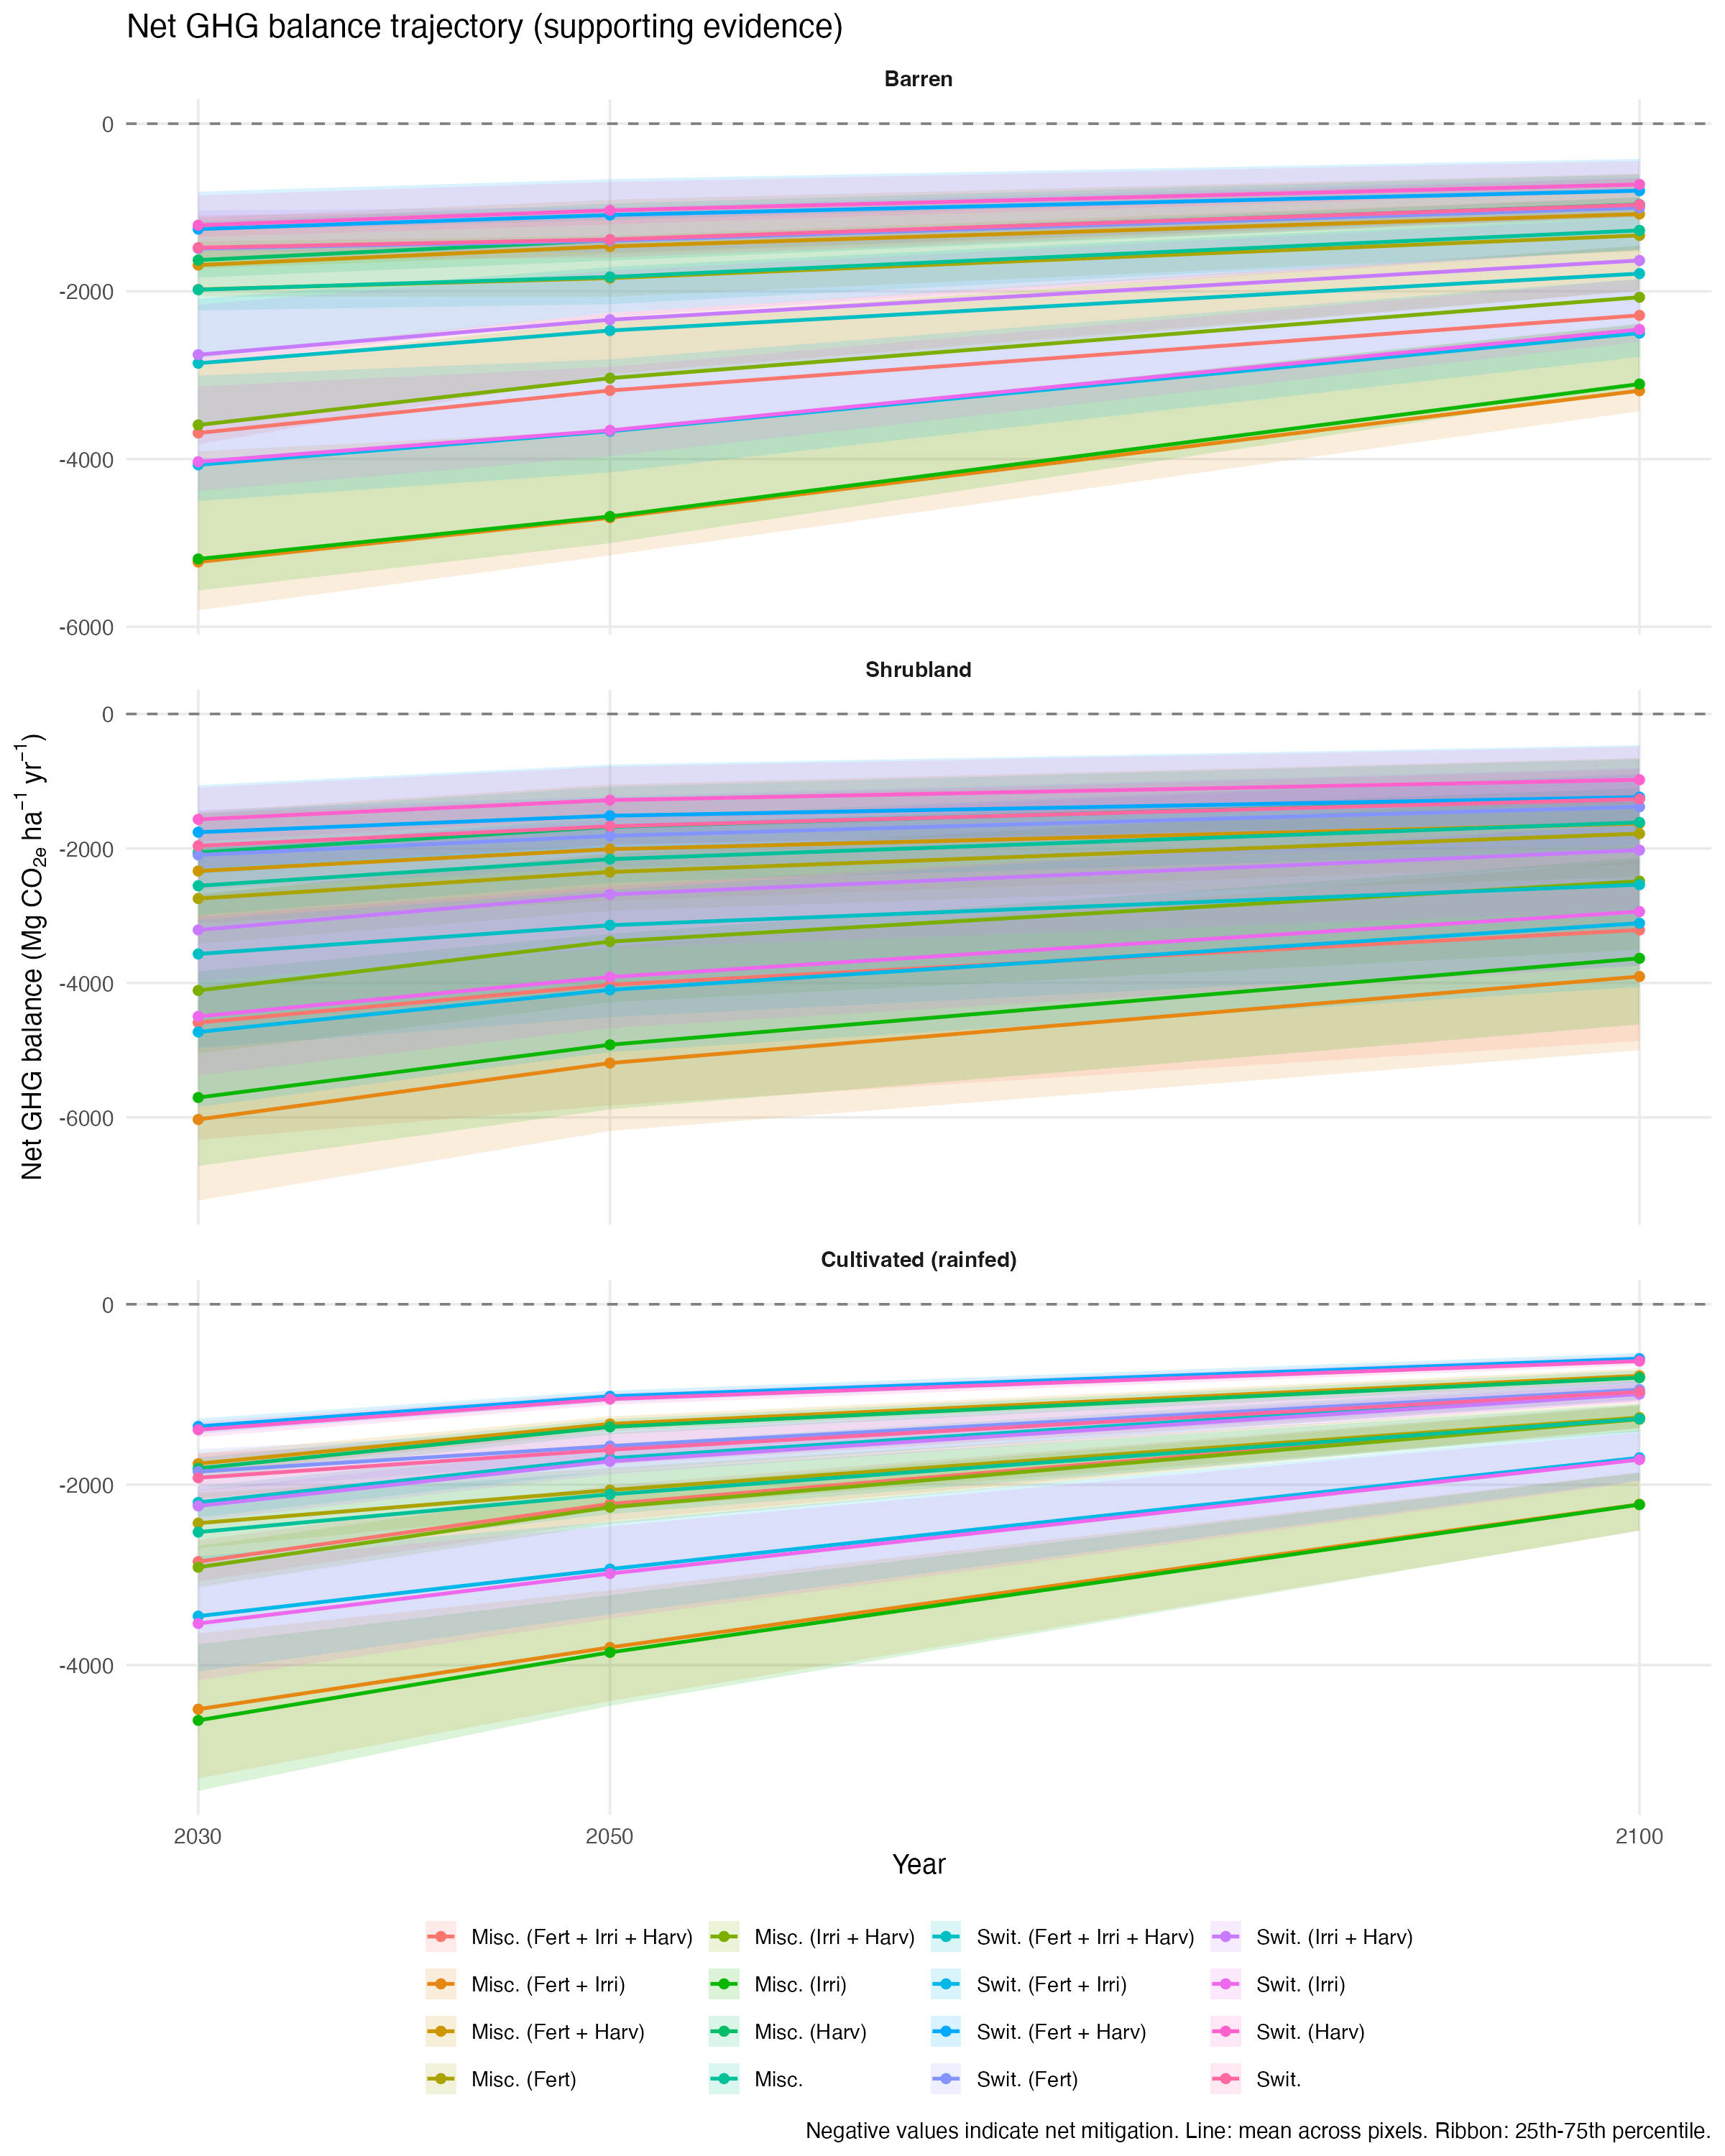
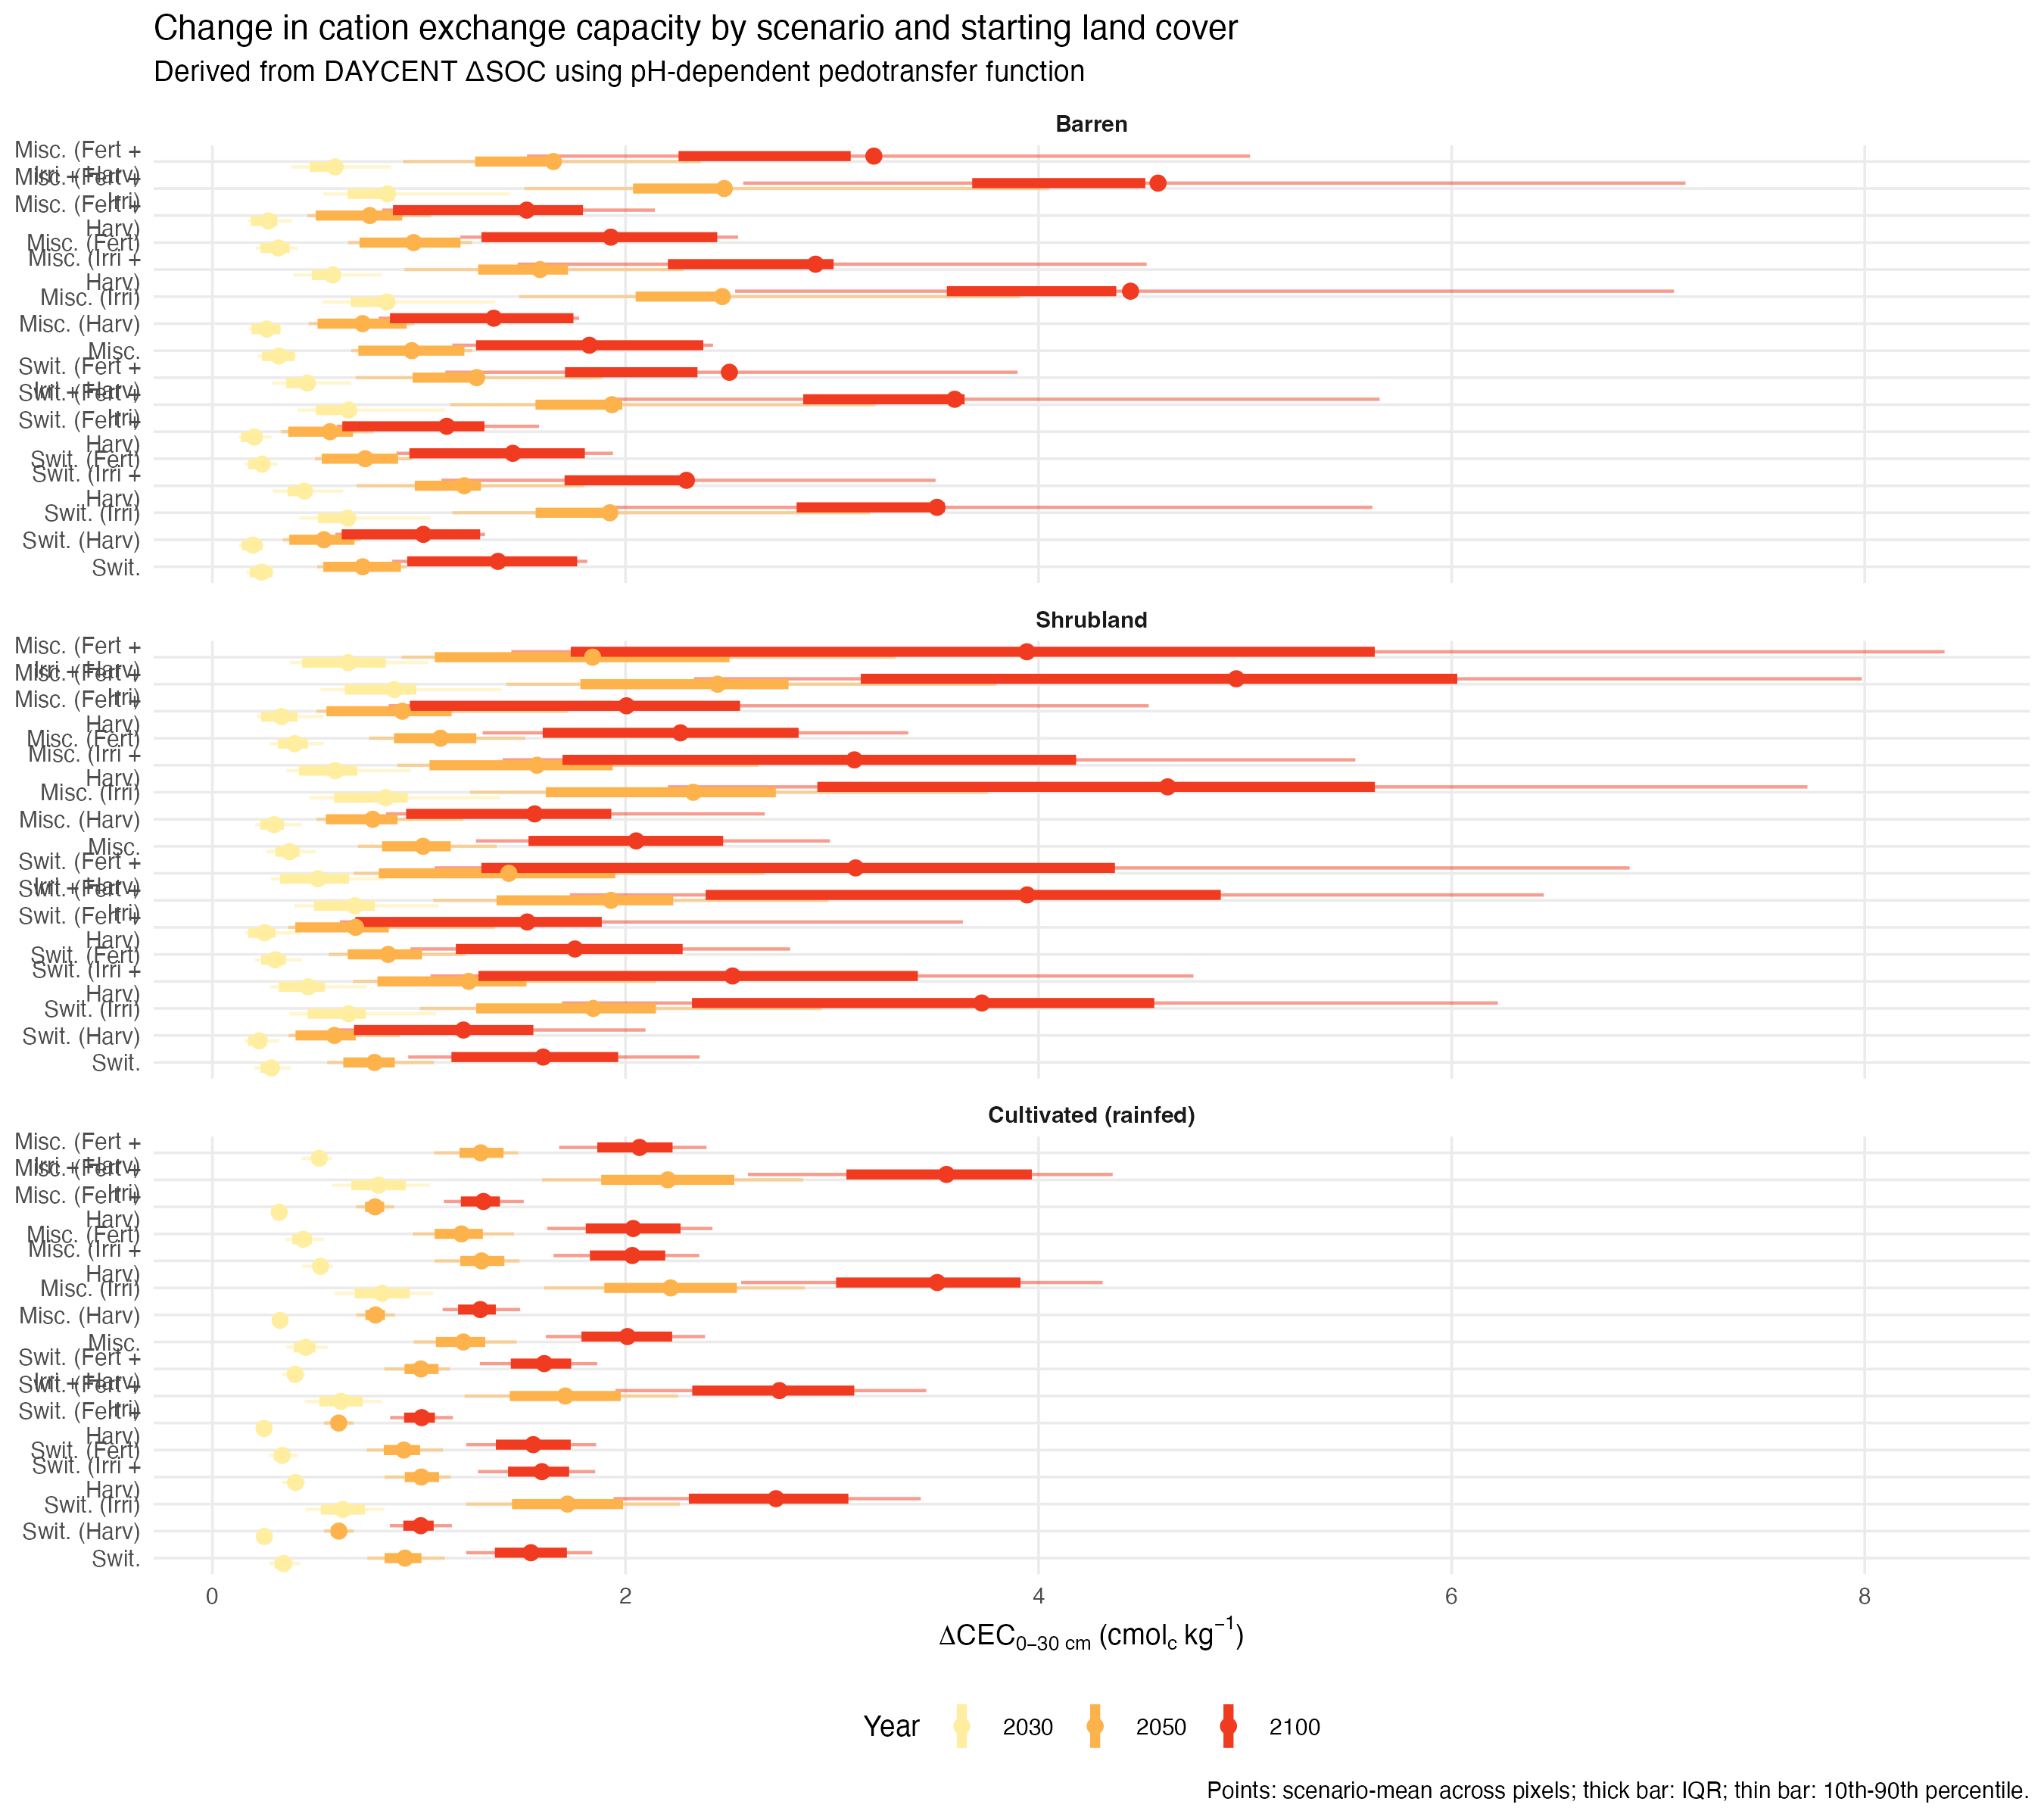
feat: add CEC and soil-N section to manuscript (Figs 7+8)
New subsections in Results:
  Cation exchange capacity:
    - Baseline CEC 9.6-22.5 cmolc/kg (25th-75th pct) from gSSURGO, median 15.0
    - ΔCEC at 2100: 1.0-5.0 cmolc/kg mean across 48 scenario-lc combos (4-33% of baseline)
    - Best scenario: misc_fert_irri_noharv on shrubland = 5.0 cmolc/kg mean
    - PTF limitation stated; order-of-magnitude interpretation recommended
    - Figures 7 (distributions) and 8 (spatial map) added

  Soil nitrogen storage and availability:
    - ΔN_organic: 1.2-3.7 kg N/ha at 2100
    - N mineralization potential: 0.4-1.1 kg N/ha/yr (mean 0.6)
    - Sustained fertility benefit framing (not GHG)

Updated:
  - Abstract: adds CEC and soil nitrogen to scope statement
  - Intro scope disclaimer: updated to include CEC via pedotransfer
  - Conclusions para 1: adds ΔCEC and ΔN_min numbers
  - references.bib: added BradyWeilSoilsPlaceholder, BohnMcNealPlaceholder

Data sources: cec_delta_summary.csv, n_organic_summary.csv (Analysis repo)

diff --git a/main_soc.tex b/main_soc.tex
@@ -39,7 +39,7 @@
 \maketitle
 
 \begin{abstract}
-This study quantifies how land-use change to perennial biofuel crops affects soil organic carbon (SOC) and soil nitrogen dynamics in the Permian Basin. Converting barren land, native shrubland, and rainfed cropland to miscanthus (\textit{Miscanthus} $\times$ \textit{giganteus}) or switchgrass (\textit{Panicum virgatum}) under 16 management strategies defined by combinations of nitrogen fertilization, irrigation, and harvest regime is evaluated using DAYCENT, a calibrated process-based biogeochemical model, at 1\,km resolution from 2021 through 2100. Across all 48 scenario–land-cover combinations, mean SOC (integrated to 105\,cm depth) increases by 14 to 85\,Mg\,C\,ha$^{-1}$ by year 2100, with the greatest gains under miscanthus with irrigation and residue retention on shrubland. Moisture availability is the primary management lever: irrigated scenarios exceed rainfed counterparts in both SOC accumulation and biomass yield. SOC response follows the basin's rainfall gradient, with the wetter southern portions showing greater accumulation than the drier north. These results identify the crop--management combinations that most effectively build SOC in this semi-arid region and provide a regional map to guide land-use planning.
+This study quantifies how land-use change to perennial biofuel crops affects soil organic carbon (SOC), cation exchange capacity (CEC), and soil nitrogen dynamics in the Permian Basin. Converting barren land, native shrubland, and rainfed cropland to miscanthus (\textit{Miscanthus} $\times$ \textit{giganteus}) or switchgrass (\textit{Panicum virgatum}) under 16 management strategies defined by combinations of nitrogen fertilization, irrigation, and harvest regime is evaluated using DAYCENT, a calibrated process-based biogeochemical model, at 1\,km resolution from 2021 through 2100. Across all 48 scenario–land-cover combinations, mean SOC (integrated to 105\,cm depth) increases by 14 to 85\,Mg\,C\,ha$^{-1}$ by year 2100, with the greatest gains under miscanthus with irrigation and residue retention on shrubland. Moisture availability is the primary management lever: irrigated scenarios exceed rainfed counterparts in both SOC accumulation and biomass yield. SOC response follows the basin's rainfall gradient, with the wetter southern portions showing greater accumulation than the drier north. These results identify the crop--management combinations that most effectively build SOC in this semi-arid region and provide a regional map to guide land-use planning.
 \end{abstract}
 
 \noindent\textbf{Keywords:} land use change, soil organic carbon, soil health, DAYCENT, Permian Basin
@@ -98,7 +98,7 @@ As a case in point, the Permian Basin encompasses barren land, native shrubland,
 % study (likely a USGS, NRCS, or EIA regional boundary dataset).
 % Suggested search: "Permian Basin geographic boundary GIS dataset USGS EIA"
 
-In this study, DAYCENT biogeochemical modeling evaluates SOC accumulation and soil-nitrogen dynamics—indicators of soil health that DAYCENT directly simulates—across 16 management scenarios and three starting land covers in the Permian Basin. Results do not extend to other soil health indicators such as aggregate stability, microbial biomass, or water-holding capacity, which require separate measurement.
+In this study, DAYCENT biogeochemical modeling evaluates SOC accumulation, cation exchange capacity, and soil-nitrogen dynamics—indicators of soil health that DAYCENT directly simulates or supports through pedotransfer—across 16 management scenarios and three starting land covers in the Permian Basin. Results do not extend to other soil health indicators such as microbial biomass or water-holding capacity, which require separate measurement.
 
 \section*{Materials and methods}
 
@@ -236,9 +236,25 @@ No-harvest management retains crop residues on the soil surface, which increases
 
 The spatial pattern of N2O flux broadly mirrors that of SOC accumulation: wetter southern portions of the basin show higher N2O flux under fertilized scenarios because greater overall microbial activity and soil nitrogen cycling occur in more productive environments.
 
-\section*{Conclusions}
+\subsection*{Cation exchange capacity}
 
-Land-use conversion to miscanthus or switchgrass builds substantial soil organic carbon in the Permian Basin across all management strategies and starting land covers. Across all 48 scenario–land-cover combinations simulated over a 79-year horizon (2021--2100), mean $\Delta$SOC ranges from 14 to 85\,Mg\,C\,ha$^{-1}$ by year 2100, showing that converting marginal lands to perennial biofuel crops is a viable soil-health restoration strategy in semi-arid regions.
+\manufig{figures/figure7.png}{Figure 7. Change in soil cation exchange capacity ($\Delta$CEC, integrated to 30\,cm depth) by management scenario and starting land cover at years 2030, 2050, and 2100. Points show the mean across pixels; thick bars span the 25th--75th percentile; thin bars span the 10th--90th percentile. $\Delta$CEC is derived from $\Delta$SOC using a pH-dependent pedotransfer function (\textit{CEC}$_\text{OM} = 30 \times$\,pH, cmol$_\text{c}$\,kg$^{-1}$\,OM; $\textit{CEC}_\text{clay} = 25$\,cmol$_\text{c}$\,kg$^{-1}$) with per-pixel pH and bulk density from gSSURGO.}
+
+\manufig{figures/figure8.png}{Figure 8. Spatial pattern of $\Delta$CEC (30\,cm depth) at year 2100, faceted by management scenario. Colour scale capped at the 99th percentile value.}
+
+Soil organic carbon accumulation raises cation exchange capacity (CEC), improving the soil's ability to retain and supply plant nutrients. Baseline CEC in the Permian Basin study area ranges from 9.6 to 22.5\,cmol$_\text{c}$\,kg$^{-1}$ (25th--75th percentile) across map units, with a median of 15.0\,cmol$_\text{c}$\,kg$^{-1}$ \citep{NRCSgSSURGOPlaceholder}, typical for the semi-arid mixed-clay soils of the region. Land-use conversion to perennial biofuel crops increases CEC through the growth of the organic-matter pool in the top 30\,cm \citep{BradyWeilSoilsPlaceholder,BohnMcNealPlaceholder}.
+
+At year 2100, mean $\Delta$CEC across the 48 scenario--land-cover combinations ranges from 1.0 to 5.0\,cmol$_\text{c}$\,kg$^{-1}$ (Figs. 7 and 8). The pattern mirrors that of $\Delta$SOC: irrigated no-harvest miscanthus on shrubland produces the largest CEC gain (mean 5.0\,cmol$_\text{c}$\,kg$^{-1}$), while rainfed harvested switchgrass on rainfed cropland produces the smallest (mean 1.0\,cmol$_\text{c}$\,kg$^{-1}$). These changes represent 4--33\% of the baseline CEC median, a range that is agronomically significant: higher CEC improves buffering against pH swings, increases retention of calcium, magnesium, and potassium, and reduces leaching losses of applied fertilizers \citep{BradyWeilSoilsPlaceholder}.
+
+The $\Delta$CEC values are estimated by a pH-dependent pedotransfer function and carry uncertainty from (1) the assumed $\textit{CEC}_\text{OM}$ coefficient, which is calibrated for temperate soils and may differ for alkaline semi-arid soils, and (2) the 30\,cm depth assumption and root-fraction scaling used to derive the 0--30\,cm $\Delta$SOC. These estimates should be treated as order-of-magnitude projections rather than precise predictions.
+
+\subsection*{Soil nitrogen storage and availability}
+
+SOC accumulation also builds soil organic nitrogen (N) stocks. New SOM accrues in the active (labile) and slow pools tracked by DAYCENT, with C:N ratios of approximately 10:1 and 12:1 respectively \citep{Parton1987Placeholder}. At year 2100, the change in soil organic N in the top 30\,cm ranges from 1.2 to 3.7\,kg\,N\,ha$^{-1}$ across scenarios. Because the active pool turns over on a timescale of roughly two years, a fraction of this stored N becomes plant-available annually through mineralization. Estimated N mineralization potential ranges from 0.4 to 1.1\,kg\,N\,ha$^{-1}$\,yr$^{-1}$ (mean 0.6\,kg\,N\,ha$^{-1}$\,yr$^{-1}$) at year 2100—a modest but sustained fertility benefit, equivalent to reducing fertilizer demand by 0.5--1\% of the full 120\,kg\,N\,ha$^{-1}$\,yr$^{-1}$ input in the fertilized scenarios. In unfertilized scenarios, this internally generated N supply represents a larger share of the total plant-available N pool.
+
+
+
+Land-use conversion to miscanthus or switchgrass builds substantial soil organic carbon in the Permian Basin across all management strategies and starting land covers. Across all 48 scenario–land-cover combinations simulated over a 79-year horizon (2021--2100), mean $\Delta$SOC ranges from 14 to 85\,Mg\,C\,ha$^{-1}$ by year 2100, showing that converting marginal lands to perennial biofuel crops is a viable soil-health restoration strategy in semi-arid regions. SOC gains translate directly to improvements in cation exchange capacity—mean $\Delta$CEC at 2100 ranges from 1.0 to 5.0\,cmol$_\text{c}$\,kg$^{-1}$ (4--33\% of the baseline median)—and build soil organic nitrogen stocks that release 0.4--1.1\,kg\,N\,ha$^{-1}$\,yr$^{-1}$ through mineralization.
 
 Moisture availability is the primary driver of SOC accumulation magnitude. Irrigated scenarios outperform rainfed counterparts across both crops, all land covers, and all time horizons in both SOC accumulation and biomass productivity. Where irrigation is feasible, it is the most impactful management decision for maximizing SOC accumulation and limiting soil nitrogen loss. Residue retention provides additional benefit by returning organic matter to the soil and further building SOC, at the cost of moderately higher soil nitrogen turnover.
 